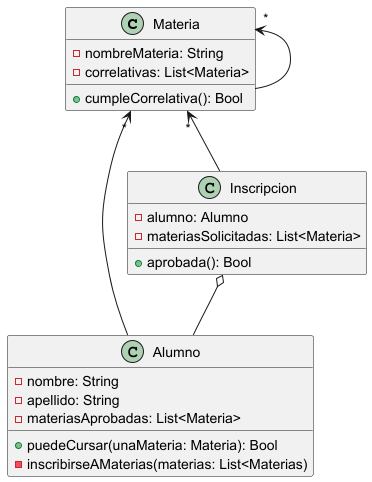
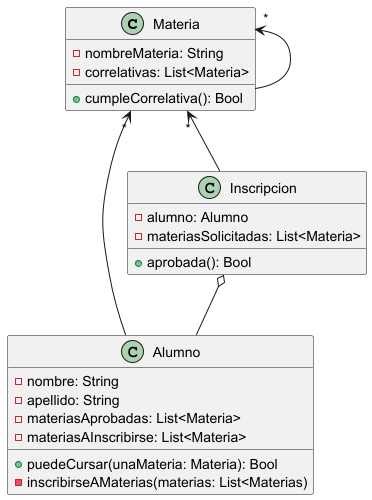
Ejercicio de correlativa con test

diff --git a/src/test/java/Inscripciones/InscripcionTest.java b/src/test/java/Inscripciones/InscripcionTest.java
@@ -1,0 +1,51 @@
+package Inscripciones;
+
+import org.junit.jupiter.api.DisplayName;
+import org.junit.jupiter.api.Test;
+import static org.junit.jupiter.api.Assertions.*;
+import java.util.List;
+
+class InscripcionTest {
+    @Test
+    @DisplayName("La inscripcion deberia aprobarse porque matematica es correlativa y el alumno la tiene aprobada")
+    void testInscripcionAprobada() {
+        Alumno alumno = new Alumno("Juan", "Perez");
+        Materia matematicas = new Materia("Matemáticas");
+        Materia fisica = new Materia("Física");
+
+        // Física requiere haber aprobado Matemáticas
+        fisica.addCorrelativa(matematicas);
+
+        // El alumno aprueba Matemáticas
+        alumno.addMateriaAprobada(matematicas);
+
+        // Se inscribe en Física
+        alumno.inscribirseAMateria(fisica);
+
+        Inscripcion inscripcion = new Inscripcion(alumno);
+
+        // Verificamos que la inscripción sea aprobada
+        assertTrue(inscripcion.aprobada(), "La inscripción debería estar aprobada");
+    }
+
+    @Test
+    @DisplayName("La inscripcion deberia rechazarse porque matematica es correlativa y el alumno no la tiene aprobada")
+    void testInscripcionNoAprobada() {
+        Alumno alumno = new Alumno("Maria", "Gomez");
+        Materia matematicas = new Materia("Matemáticas");
+        Materia fisica = new Materia("Física");
+
+        // Física requiere haber aprobado Matemáticas
+        fisica.addCorrelativa(matematicas);
+
+        // El alumno NO aprueba Matemáticas
+
+        // Se inscribe en Física
+        alumno.inscribirseAMateria(fisica);
+
+        Inscripcion inscripcion = new Inscripcion(alumno);
+
+        // Verificamos que la inscripción NO sea aprobada
+        assertFalse(inscripcion.aprobada(), "La inscripción no debería estar aprobada");
+    }
+}

diff --git a/src/main/java/Inscripciones/Alumno.java b/src/main/java/Inscripciones/Alumno.java
@@ -6,26 +6,31 @@ import lombok.Setter;
 import java.util.ArrayList;
 import java.util.List;
 
-@Getter @Setter
+@Getter
+@Setter
 public class Alumno {
     private String nombre;
     private String apellido;
     private List<Materia> materiasAprobadas;
-    private List<Materia> materiasSolicitadasAInscribirse;
+    private List<Materia> materiasAInscribirse;
 
-    public Alumno(String nombre, String apellido, List<Materia> materiasAprobadas) {
+    public Alumno(String nombre, String apellido) {
         this.nombre = nombre;
         this.apellido = apellido;
-        this.materiasAprobadas = materiasAprobadas;
-        this.materiasSolicitadasAInscribirse = new ArrayList<>();
+        this.materiasAprobadas = new ArrayList<>();
+        this.materiasAInscribirse = new ArrayList<>();
     }
 
     public Boolean puedeCursar(Materia unaMateria){
         return unaMateria.cumpleCorrelativas(this);
     }
 
-    private List<Materia> inscribirseAMateria(List<Materia> materias) {
-        materiasSolicitadasAInscribirse.addAll(materias);
-        return materiasSolicitadasAInscribirse;
+    public List<Materia> inscribirseAMateria(Materia materia) {
+        materiasAInscribirse.add(materia);
+        return materiasAInscribirse;
+    }
+
+    public void addMateriaAprobada(Materia unaMateria){
+        materiasAprobadas.add(unaMateria);
     }
 }

diff --git a/src/main/java/Inscripciones/Materia.java b/src/main/java/Inscripciones/Materia.java
@@ -3,6 +3,7 @@ package Inscripciones;
 import lombok.Getter;
 import lombok.Setter;
 
+import java.util.ArrayList;
 import java.util.List;
 
 @Getter
@@ -11,12 +12,16 @@ public class Materia {
     private String nombreMateria;
     private List<Materia> correlativas;
 
-    public Materia(String nombreMateria, List<Materia> correlativas) {
+    public Materia(String nombreMateria) {
         this.nombreMateria = nombreMateria;
-        this.correlativas = correlativas;
+        correlativas = new ArrayList<>();
     }
 
     public Boolean cumpleCorrelativas(Alumno alumno) {
         return alumno.getMateriasAprobadas().containsAll(correlativas);
+    }
+
+    public void addCorrelativa(Materia unaCorrelativa) {
+        correlativas.add(unaCorrelativa);
     }
 }

diff --git a/src/main/java/Inscripciones/Inscripcion.java b/src/main/java/Inscripciones/Inscripcion.java
@@ -22,6 +22,6 @@ public class Inscripcion {
     }
 
     private void getMateriasSolicitadas() {
-        this.materiasSolicitadas = alumno.getMateriasSolicitadasAInscribirse();
+        this.materiasSolicitadas = alumno.getMateriasAInscribirse();
     }
 }
